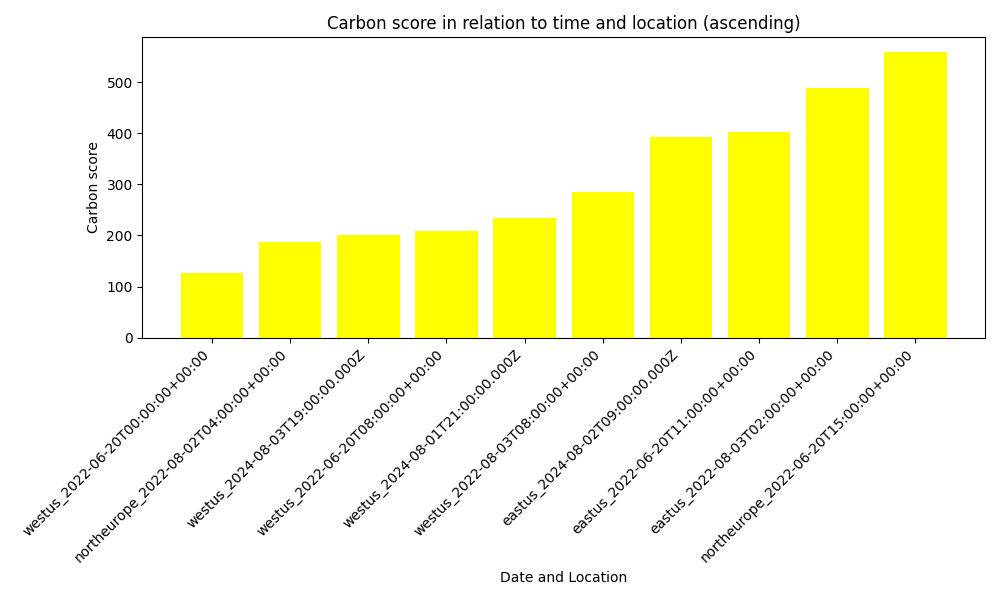
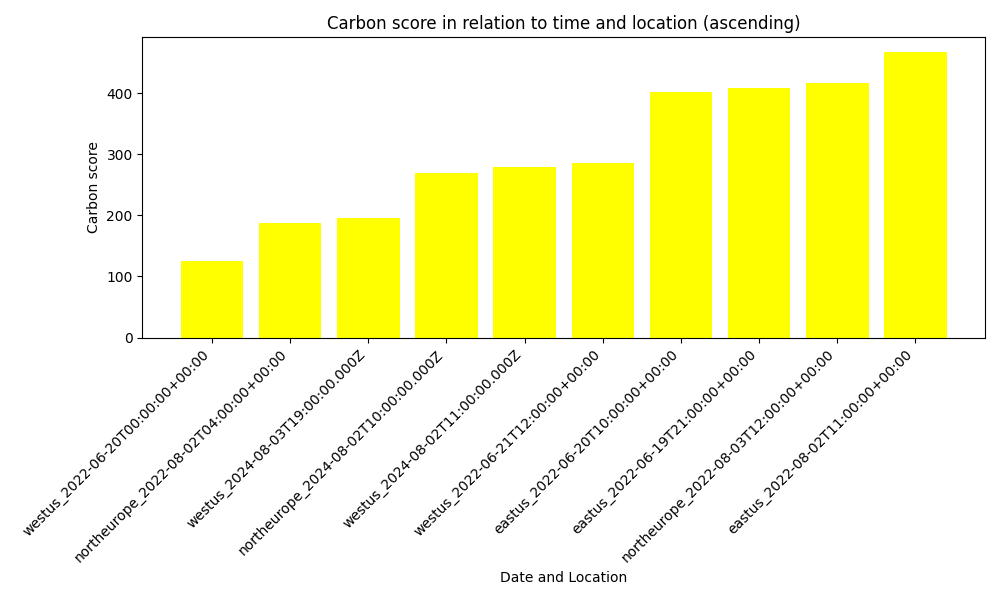
made read me changes

diff --git a/Code/if-optimisation-models/src/lib/carbon-aware-advisor/README.md b/Code/if-optimisation-models/src/lib/carbon-aware-advisor/README.md
@@ -75,35 +75,36 @@ Please refer to this for more information, but there are too many errors in this
 ## Configuration
 The model requires two main parameters to be configured in the impl file:
 - `allowed-locations`: A list of locations for which the carbon data is required.
+The locations can also be keywords like azure_europe etc that are sets of locations that cover a wider range so that the user does not have to write each individual location. You can find all the available keywords and locations at the locations.json .
 - `allowed-timeframes`: A list of timeframes in the format `YYYY-MM-DDTHH:MM:SSZ - YYYY-MM-DDTHH:MM:SSZ`.
-
+The timeframes can be in the past and up to 5 years in the future. If the timeframe is in the future then we perform our own forecasting algorithm.
 Optional parameter:
-- `sampling`: Specifies the number of data points to sample from the returned data for a more granular analysis.
+- `sampling`: Specifies the number of data points to sample from the returned data for a more granular analysis. If it is not specified then only the best timeframe and location combination is returned. Sampling if specified must be larger or equal to the number of allowed timeframes. The sampling emmission data are sampled uniformely from the allowed-timeframes (more data will be returned from larger timeframes) and the best emission data for each timeframe is always returned. The rest from that timeframe are selected at random.
 
 ## Example Impl Configuration without sampling
 Impl:
 
 ```yaml
 name: Carbon Advisor Demo
-description: Simple demo for invoking carbon-aware-advisor model
+description: Simple demo for invoking carbon-advisor model
 tags: null
 initialize:
   plugins:
-    carbon-aware-advisor:
+    carbon-advisor:
       method: CarbonAwareAdvisor
       path: "@grnsft/if-optimisation-models"
-tree:
-  children:
-    child0:
-      pipeline:
-        - carbon-aware-advisor
-      defaults:
+      global-config:
         allowed-locations:  ['northeurope','eastus','westus']
         allowed-timeframes: [
             "2022-06-19T14:00:00Z - 2022-06-21T19:00:00Z",
             "2022-08-01T19:00:00Z - 2022-08-03T20:35:31Z",
             "2024-08-01T19:00:00Z - 2024-08-03T20:35:31Z"
           ]
+tree:
+  children:
+    child0:
+      pipeline:
+        - carbon-advisor
       inputs:
         - 
 ```
@@ -111,18 +112,18 @@ Ompl:
 
 ```yaml
 name: Carbon Advisor Demo
-description: Simple demo for invoking carbon-aware-advisor model
+description: Simple demo for invoking carbon-advisor model
 tags: null
 initialize:
   plugins:
-    carbon-aware-advisor:
+    carbon-advisor:
       path: '@grnsft/if-optimisation-models'
       method: CarbonAwareAdvisor
 tree:
   children:
     child0:
       pipeline:
-        - carbon-aware-advisor
+        - carbon-advisor
       defaults:
         allowed-locations:
           - northeurope
@@ -161,16 +162,7 @@ initialize:
     carbon-aware-advisor:
       method: CarbonAwareAdvisor
       path: "@grnsft/if-optimisation-models"
-    plotter:
-      method: Shell
-      path: "@grnsft/if-models"
-tree:
-  children:
-    child0:
-      pipeline:
-        - carbon-aware-advisor
-        - plotter
-      defaults:
+      global-config:
         allowed-locations:  ['northeurope','eastus','westus']
         allowed-timeframes: [
             "2022-06-19T14:00:00Z - 2022-06-21T19:00:00Z",
@@ -178,7 +170,18 @@ tree:
             "2024-08-01T19:00:00Z - 2024-08-03T20:35:31Z"
           ]
         sampling: 10
+    plotter:
+      method: Shell
+      path: "@grnsft/if-models"
+      global-config:
         command: 'python3 ./src/lib/plotter/plotter'
+tree:
+  children:
+    child0:
+      pipeline:
+        - carbon-aware-advisor
+        - plotter
+      defaults:
         x_name:  [location,time]
         y_name: score
         colour: yellow
@@ -200,16 +203,7 @@ initialize:
     carbon-aware-advisor:
       path: '@grnsft/if-optimisation-models'
       method: CarbonAwareAdvisor
-    plotter:
-      path: '@grnsft/if-models'
-      method: Shell
-tree:
-  children:
-    child0:
-      pipeline:
-        - carbon-aware-advisor
-        - plotter
-      defaults:
+      global-config:
         allowed-locations:
           - northeurope
           - eastus
@@ -219,7 +213,18 @@ tree:
           - 2022-08-01T19:00:00Z - 2022-08-03T20:35:31Z
           - 2024-08-01T19:00:00Z - 2024-08-03T20:35:31Z
         sampling: 10
+    plotter:
+      path: '@grnsft/if-models'
+      method: Shell
+      global-config:
         command: python3 ./src/lib/plotter/plotter
+tree:
+  children:
+    child0:
+      pipeline:
+        - carbon-aware-advisor
+        - plotter
+      defaults:
         x_name:
           - location
           - time
@@ -233,17 +238,7 @@ tree:
       inputs:
         - null
       outputs:
-        - allowed-locations:
-            - northeurope
-            - eastus
-            - westus
-          allowed-timeframes:
-            - 2022-06-19T14:00:00Z - 2022-06-21T19:00:00Z
-            - 2022-08-01T19:00:00Z - 2022-08-03T20:35:31Z
-            - 2024-08-01T19:00:00Z - 2024-08-03T20:35:31Z
-          sampling: 10
-          command: python3 ./src/lib/visualizer/plotter
-          x_name:
+        - x_name:
             - location
             - time
           y_name: score
@@ -262,33 +257,33 @@ tree:
               time: '2022-06-20T00:00:00+00:00'
               score: 126
             - location: eastus
-              time: '2022-06-20T11:00:00+00:00'
-              score: 403
-            - location: northeurope
-              time: '2022-06-20T15:00:00+00:00'
-              score: 560
+              time: '2022-06-20T10:00:00+00:00'
+              score: 402
             - location: westus
-              time: '2022-06-20T08:00:00+00:00'
-              score: 208
+              time: '2022-06-21T12:00:00+00:00'
+              score: 286
+            - location: eastus
+              time: '2022-06-19T21:00:00+00:00'
+              score: 409
             - location: northeurope
               time: '2022-08-02T04:00:00+00:00'
               score: 188
-            - location: westus
-              time: '2022-08-03T08:00:00+00:00'
-              score: 285
             - location: eastus
-              time: '2022-08-03T02:00:00+00:00'
-              score: 489
+              time: '2022-08-02T11:00:00+00:00'
+              score: 468
+            - location: northeurope
+              time: '2022-08-03T12:00:00+00:00'
+              score: 416
             - location: westus
               time: '2024-08-03T19:00:00.000Z'
-              score: 201.16041666666666
+              score: 196.47708333333333
+            - location: northeurope
+              time: '2024-08-02T10:00:00.000Z'
+              score: 268.9604166666667
             - location: westus
-              time: '2024-08-01T21:00:00.000Z'
-              score: 233.66041666666666
-            - location: eastus
-              time: '2024-08-02T09:00:00.000Z'
-              score: 393.175
-          diagram: /home/user/repo/Code/if-optimisation-models/demo.png
+              time: '2024-08-02T11:00:00.000Z'
+              score: 279.9770833333333
+          diagram: /home/jim/comp0101-ief/Code/if-optimisation-models/demo.png
 
 ```
 And we can see the following diagram being created:
